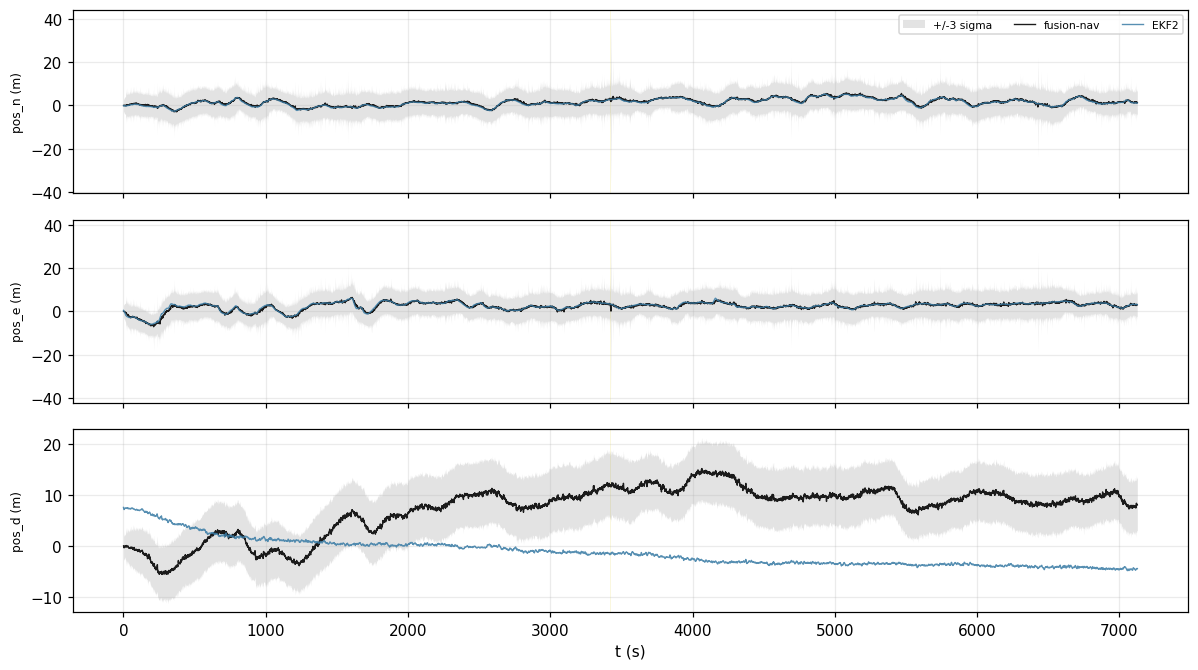
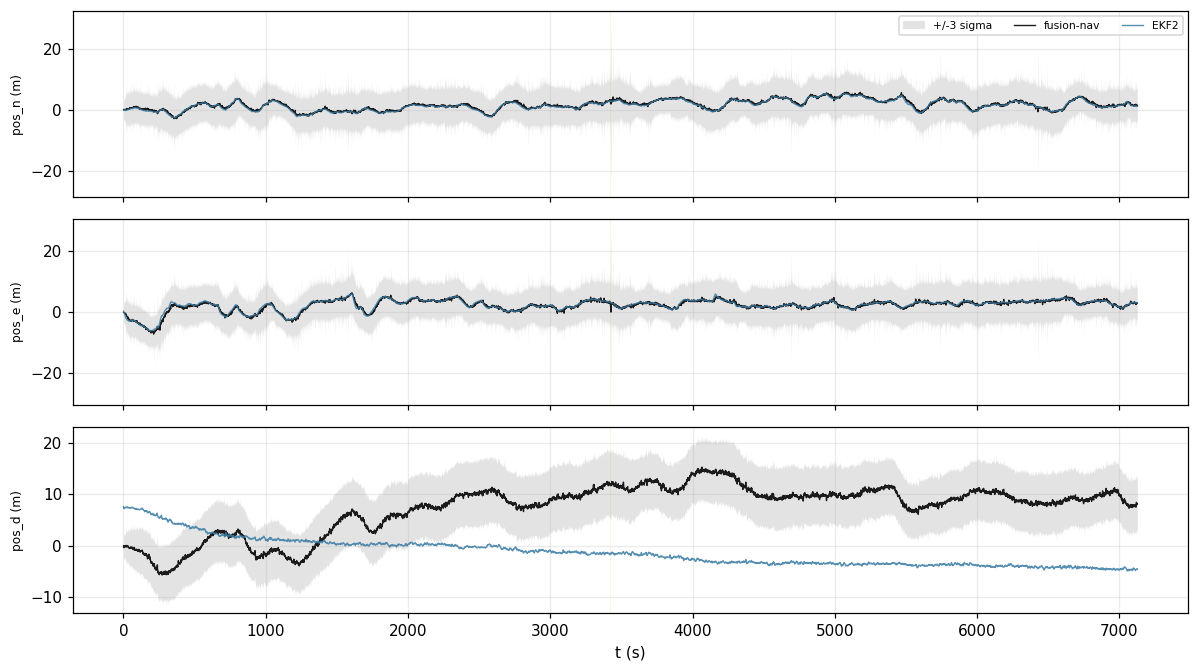
Validation pages for the hold; cost page lists the step and the hold beside predict (#210)

diff --git a/validation/cost.md b/validation/cost.md
@@ -2,10 +2,10 @@
 # Cost on a target
 
 **What does the filter cost a microcontroller?** The whole filter, `Eskf`, is
-3776 bytes on a Cortex-M0 and allocates nothing
+4104 bytes on a Cortex-M0 and allocates nothing
 else, so that is the RAM to plan for beyond the stack. The deepest stack is a GNSS velocity
-update, 11508 bytes, and linking every entry point takes
-108474 bytes of flash at `opt-level = "s"`. Execution time on
+update, 11540 bytes, and linking every entry point takes
+112042 bytes of flash at `opt-level = "s"`. Execution time on
 hardware is not measured yet (#41).
 
 Every figure on this page is pinned exactly in `data/footprint.txt`, which CI measures on
@@ -42,13 +42,13 @@ host timings, which are taken on one machine and pinned nowhere.
 
 | type | `thumbv6m` | `thumbv7em` |
 | --- | --- | --- |
-| `Eskf`, the filter | 3776 | 3776 |
+| `Eskf`, the filter | 4104 | 4104 |
 | of which the state history of (23′) | 1544 | 1544 |
 | of which the covariance `P` | 900 | 900 |
-| of which `Diagnostics` | 768 | 768 |
+| of which `Diagnostics` | 1048 | 1048 |
 | of which the barometric offset of (30′) | 64 | 64 |
 | `State`, the estimate `state()` returns | 72 | 72 |
-| `Config` | 244 | 244 |
+| `Config` | 260 | 260 |
 | `StaticWindow`, at any rate and length | 912 | 912 |
 | `StaticSample` | 80 | 80 |
 | `Startup`, a start worked out and checked before it commits, on a start's stack | 1088 | 1088 |
@@ -61,19 +61,19 @@ The deepest stack a call into each entry point takes, in bytes, before the calle
 
 | entry point | `thumbv6m` | `thumbv7em` |
 | --- | --- | --- |
-| `predict` | 9164 | 8984 |
-| `fuse_gnss_position` | 10780 | 10576 |
-| `fuse_gnss_geodetic` | 11124 | 10904 |
-| `fuse_gnss_velocity` | 11508 | 11288 |
-| `fuse_baro_altitude` | 9644 | 9392 |
-| `fuse_mag_heading` | 9716 | 9480 |
-| `fuse_gnss_heading` | 9836 | 9616 |
-| `fuse_course` | 9852 | 9624 |
-| `predicted_validity` | 8644 | 8448 |
+| `predict` | 10748 | 10584 |
+| `fuse_gnss_position` | 10804 | 10600 |
+| `fuse_gnss_geodetic` | 11140 | 10928 |
+| `fuse_gnss_velocity` | 11540 | 11328 |
+| `fuse_baro_altitude` | 9652 | 9416 |
+| `fuse_mag_heading` | 9732 | 9504 |
+| `fuse_gnss_heading` | 9852 | 9640 |
+| `fuse_course` | 9868 | 9648 |
+| `predicted_validity` | 8652 | 8448 |
 | `initialize` | 5476 | 5312 |
 | `initialize_coarse` | 6212 | 6048 |
-| `initialize_from` | 2984 | 2896 |
-| **the deepest of them** | **11508** | **11288** |
+| `initialize_from` | 3008 | 2896 |
+| **the deepest of them** | **11540** | **11328** |
 
 The deepest path is `fuse_gnss_velocity` calling the three-measurement update, which calls
 `nalgebra`'s 15 × 15 matrix product, which calls the soft-float multiply on `thumbv6m` and
@@ -83,26 +83,26 @@ Each entry point's own frame, and the frames beneath it that set its depth:
 
 | function | `thumbv6m` | `thumbv7em` |
 | --- | --- | --- |
-| `predict` | 2176 | 2160 |
+| `predict` | 16 | 16 |
 | `fuse_gnss_position` | 1376 | 1336 |
-| `fuse_gnss_geodetic` | 344 | 328 |
+| `fuse_gnss_geodetic` | 336 | 328 |
 | `fuse_gnss_velocity` | 1416 | 1408 |
-| `fuse_baro_altitude` | 1272 | 1256 |
+| `fuse_baro_altitude` | 1264 | 1256 |
 | `fuse_mag_heading` | 112 | 104 |
 | `fuse_gnss_heading` | 248 | 256 |
 | `fuse_course` | 256 | 264 |
-| `predicted_validity` | 1856 | 1832 |
+| `predicted_validity` | 1864 | 1832 |
 | `initialize` | 2224 | 2216 |
 | `initialize_coarse` | 3504 | 3488 |
 | `initialize_from` | 1928 | 1856 |
 | beneath the three heading entry points: the heading update they share | 1232 | 1240 |
-| beneath `fuse_gnss_velocity`: the update of (23)–(27), three measurements | 8088 | 7960 |
-| beneath `fuse_gnss_position` (and so a geodetic fix): two, the horizontal pair | 7400 | 7320 |
-| beneath `fuse_gnss_position`'s height, `fuse_baro_altitude` and the heading update: one | 6368 | 6216 |
+| beneath `fuse_gnss_velocity`: the update of (23)–(27), three measurements | 8120 | 8000 |
+| beneath `fuse_gnss_position` (and so a geodetic fix): two, the horizontal pair | 7424 | 7344 |
+| beneath `fuse_gnss_position`'s height, `fuse_baro_altitude` and the heading update: one | 6384 | 6240 |
 | beside the update: the observation formed at the measurement's time, (23′) | 1464 | 1440 |
-| beside the update: committing its result, or handing it to an adoption | 1120 | 1064 |
+| beside the update: committing its result, or handing it to an adoption | 1120 | 1072 |
 | beside the update: adopting a position, from `fuse_gnss_position` | 1976 | 1992 |
-| beside the update: adopting a velocity, from `fuse_gnss_velocity` | 1904 | 1904 |
+| beside the update: adopting a velocity, from `fuse_gnss_velocity` | 1896 | 1904 |
 | beneath the update: the attitude reset of (41) | 456 | 448 |
 | beneath the update: the injection of (39)–(40) | 168 | 88 |
 | beneath `predict`: one sample, (9)–(22) | 1088 | 1096 |
@@ -116,11 +116,11 @@ Each entry point's own frame, and the frames beneath it that set its depth:
 
 | bytes | `thumbv6m` `3` | `thumbv6m` `s` | `thumbv7em` `3` | `thumbv7em` `s` |
 | --- | --- | --- | --- | --- |
-| `.text` | 168758 | 108474 | 183636 | 114684 |
-| of which `libm` | 19532 | 10432 | 20752 | 12064 |
-| of which `compiler_builtins` | 10288 | 10334 | 7558 | 7674 |
-| of which `nalgebra`, out of line | 15256 | 2056 | 4202 | 1080 |
-| `.rodata` | 4383 | 4455 | 4527 | 4599 |
+| `.text` | 173106 | 112042 | 194396 | 118668 |
+| of which `libm` | 19532 | 10432 | 20752 | 12620 |
+| of which `compiler_builtins` | 10334 | 10334 | 7674 | 7674 |
+| of which `nalgebra`, out of line | 15256 | 1900 | 3956 | 924 |
+| `.rodata` | 4415 | 4487 | 4559 | 4631 |
 
 The column heads are target and `opt-level`. `compiler_builtins` is software floating point on
 `thumbv6m`; on `thumbv7em` it is the `f64` arithmetic a single-precision FPU lacks, beside

diff --git a/validation/ekf2.md b/validation/ekf2.md
@@ -8,7 +8,7 @@ RMS north, velocity to 0.04160 m/s RMS north and tilt to
 receiver that overstates its accuracy, a hand launch this filter levels wrong, and a barometer
 the two filters trust differently.
 
-Generated by `tools/validation.sh` at `920d11a`; every figure on this page is from that build, and `tools/validation.sh --check` re-derives them.
+Generated by `tools/validation.sh` at `2dfcabf`; every figure on this page is from that build, and `tools/validation.sh --check` re-derives them.
 
 **EKF2 is not the truth.** Real flight logs carry no true trajectory, so every number here is a
 distance between two estimators fed the same sensor data. It measures agreement, never
@@ -35,10 +35,10 @@ Replayed `raw`:
 | run | `pos_n_rms` | `pos_e_rms` | `pos_d_rms` | `vel_n_rms` | `tilt_diff_rms` | `heading_diff_med` | `rej_s_gnss_pos` | `rej_s_gnss_pos_ekf2` |
 |---|---|---|---|---|---|---|---|---|
 | `3949f175/raw` | 0.04495 | 0.03032 | 0.4535 | 0.06739 | 0.4958 | 19.58 | 0.000 | 0.000 |
-| `f16771dd/raw` | none | none | none | 4.631 | 1.729 | 169.9 | none | 0.000 |
+| `f16771dd/raw` | none | none | none | 0.4931 | 0.9216 | 169.6 | none | 0.000 |
 | `a299e722/raw` | 5.822 | 16.39 | 2.607 | 1.238 | 3.177 | 0.8911 | 7.002 | 0.000 |
-| `7592c9b2/raw` | none | none | none | 0.5206 | 0.7504 | 0.5215 | none | 0.000 |
-| `2c42096b/raw` | 0.2951 | 0.3559 | 11.13 | 0.09168 | 0.3638 | 0.5664 | 0.000 | 0.000 |
+| `7592c9b2/raw` | none | none | none | 0.07548 | 0.2519 | 0.4745 | none | 0.000 |
+| `2c42096b/raw` | 0.2950 | 0.3559 | 11.13 | 0.09167 | 0.3638 | 0.5662 | 0.000 | 0.000 |
 | `89a498ce/raw` | 0.08330 | 0.02933 | 0.1057 | 0.04160 | 0.3291 | 0.7624 | 0.000 | 0.000 |
 | `eb799954/raw` | 0.2749 | 0.2520 | 0.8808 | 0.09795 | 0.5019 | 4.690 | 0.000 | 0.000 |
 | `cd7e0001/raw` | 0.9892 | 0.5537 | 1.628 | 0.08542 | 0.4490 | 0.3793 | 0.000 | 0.000 |
@@ -53,10 +53,10 @@ Replayed `px4`:
 | run | `pos_n_rms` | `pos_e_rms` | `pos_d_rms` | `vel_n_rms` | `tilt_diff_rms` | `heading_diff_med` | `rej_s_gnss_pos` | `rej_s_gnss_pos_ekf2` |
 |---|---|---|---|---|---|---|---|---|
 | `3949f175/px4` | 0.04499 | 0.03033 | 0.4425 | 0.06740 | 0.4946 | 19.58 | 0.000 | 0.000 |
-| `f16771dd/px4` | none | none | none | 4.631 | 1.729 | 169.9 | none | 0.000 |
+| `f16771dd/px4` | none | none | none | 0.4931 | 0.9216 | 169.6 | none | 0.000 |
 | `a299e722/px4` | 0.5436 | 0.3325 | 1.199 | 0.3760 | 2.119 | 0.8433 | 0.000 | 0.000 |
-| `7592c9b2/px4` | none | none | none | 0.5206 | 0.7504 | 0.5215 | none | 0.000 |
-| `2c42096b/px4` | 0.2933 | 0.3536 | 11.11 | 0.09168 | 0.2714 | 0.4407 | 0.000 | 0.000 |
+| `7592c9b2/px4` | none | none | none | 0.07548 | 0.2519 | 0.4745 | none | 0.000 |
+| `2c42096b/px4` | 0.2932 | 0.3536 | 11.11 | 0.09168 | 0.2714 | 0.4404 | 0.000 | 0.000 |
 | `89a498ce/px4` | 0.09253 | 0.04825 | 0.9781 | 0.02851 | 0.1636 | 0.6808 | 0.000 | 0.000 |
 | `eb799954/px4` | 0.1167 | 0.1012 | 1.351 | 0.1015 | 0.4037 | 4.870 | 0.000 | 0.000 |
 | `cd7e0001/px4` | 0.7904 | 0.3266 | 1.096 | 0.07755 | 0.4171 | 1.219 | 0.000 | 0.000 |
@@ -81,7 +81,7 @@ Columns, each a difference between EKF2 and this filter:
 Some rows are explained by the log, not by either filter:
 
 - `f16771dd` has no GNSS, and EKF2 used no magnetometer on it either, so EKF2's heading drifted
-  with nothing to correct it. The 169.9° is that drift
+  with nothing to correct it. The 169.6° is that drift
   against this filter's magnetometer heading.
 - `7592c9b2` was flown with LPE, an older PX4 estimator, not EKF2, and reports no position.
 - `3949f175` is a simulation (PX4 SITL) whose magnetic declination setting does not match the
@@ -171,7 +171,7 @@ height together, and trusts GNSS for slow changes. The barometer drifts over the
 the two heights move apart. From the average of the first minute to the average of the last,
 EKF2's height changes by 11.97 m and this filter's by
 -7.984 m (up is positive). With no true height, nothing here says
-which is right. Horizontally the two agree to 0.2951 m RMS north.
+which is right. Horizontally the two agree to 0.2950 m RMS north.
 
 ![states_position_ned for 2c42096b/raw](figures/2c42096b-raw/states_position_ned.png)
 

diff --git a/validation/accuracy.md b/validation/accuracy.md
@@ -8,7 +8,7 @@ flight, horizontal position is off by 0.325 m RMS and never by more than
 errors the simulator models, not every error a real vehicle has. One real quadcopter is scored
 too, [below](#a-real-quadcopter-against-rtk), for position, height and velocity.
 
-Generated by `tools/validation.sh` at `920d11a`; every figure on this page is from that build, and `tools/validation.sh --check` re-derives them.
+Generated by `tools/validation.sh` at `2dfcabf`; every figure on this page is from that build, and `tools/validation.sh --check` re-derives them.
 
 ## Where the truth comes from
 
@@ -23,6 +23,8 @@ Each scenario exists to test one thing no other scenario covers:
 - `static`: 60 s sitting on the ground.
 - `mission`: the **baseline**. 5 s still, then a 180 s circuit with turns and climbs.
 - `moving_start`: a different flight, in the air and turning from the first sample.
+- `bench`: 120 s still with no GNSS, the application telling the filter it is still.
+- `hover_outage`: a hover drifting 27 m, with no GNSS for 90 s of it.
 - The rest (`harsh_imu`, `gnss_outage`, `baro_drift`, `gnss_latency`, `correlated`,
   `mag_disturbance`, `logging_dropout`): the baseline circuit with one thing changed, each
   described below.
@@ -35,7 +37,7 @@ Each scenario exists to test one thing no other scenario covers:
 | `static` | 1 | 0.659 | 1.029 | 0.363 | 0.138 | 0.539 | 0.554 |
 | `mission` | 2 | 0.325 | 0.811 | 0.172 | 0.138 | 0.328 | 0.402 |
 | `harsh_imu` | 2 | 0.327 | 0.819 | 0.171 | 0.143 | 0.920 | 1.829 |
-| `gnss_outage` | 2 | 1.677 | 9.707 | 0.103 | 0.211 | 0.340 | 0.463 |
+| `gnss_outage` | 2 | 1.680 | 8.987 | 0.103 | 0.212 | 0.342 | 0.462 |
 | `moving_start` | 4 | 0.469 | 0.763 | 0.881 | 0.146 | 1.562 | 1.494 |
 | `baro_drift` | 2 | 0.325 | 0.811 | 1.122 | 0.138 | 0.327 | 0.401 |
 | `gnss_latency` | 2 | 0.327 | 0.826 | 0.159 | 0.143 | 0.339 | 0.429 |
@@ -46,6 +48,8 @@ Each scenario exists to test one thing no other scenario covers:
 | `no_mag` | 3 | 0.277 | 0.564 | 0.222 | 0.139 | 0.498 | 6.594 |
 | `logging_dropout` | 2 | 0.324 | 2.684 | 0.148 | 0.140 | 0.405 | 0.474 |
 | `flight` | 8 | 1.540 | 3.569 | 0.347 | 0.428 | 0.480 | 7.978 |
+| `bench` | 9 | 0.002 | 0.003 | 0.049 | 0.002 | 0.425 | 0.380 |
+| `hover_outage` | 10 | 7.753 | 17.686 | 0.251 | 0.475 | 0.524 | 0.238 |
 
 Columns: `pos_h` is horizontal position error and `pos_v` height error, in meters. `pos_h_max`
 is the worst horizontal error at any moment. `vel` is velocity error in m/s. `tilt` is the
@@ -59,9 +63,14 @@ for. Against `mission`:
 - `harsh_imu` flies a poorly mounted, vibrating IMU. Attitude suffers:
   0.920° of tilt against 0.328°, while position barely
   moves.
-- `gnss_outage` loses GNSS for 20 s, and position drifts to 9.707 m
+- `gnss_outage` loses GNSS for 20 s, and position drifts to 8.987 m
   at worst. With nothing to correct it, the filter is integrating acceleration, and the
   [robustness page](robustness.md#gnss-outage) shows the drift staying inside the band.
+- `hover_outage` is not a departure but the case `gnss_outage` cannot be: a long outage with
+  the vehicle hardly moving. Nothing aids tilt for 90 s, and the position hold
+  ([GOALS.md](../GOALS.md#holding-tilt-without-aiding)) keeps it at 0.524°
+  RMS, with position 7.753 m RMS. `bench` holds tilt to
+  0.425° with no GNSS at all, from the application's word that it is still.
 - `moving_start` starts in the air, turning, with no still moment to level from. That costs
   attitude at the start; [below](#a-start-in-motion), it converges.
 - `baro_drift` has a barometer whose zero drifts. Height suffers:

diff --git a/validation/src/cost.md b/validation/src/cost.md
@@ -68,6 +68,7 @@ The deepest stack a call into each entry point takes, in bytes, before the calle
 | `fuse_mag_heading` | {{footprint thumbv6m-none-eabi chain.eskf.Eskf.fuse_mag_heading}} | {{footprint thumbv7em-none-eabihf chain.eskf.Eskf.fuse_mag_heading}} |
 | `fuse_gnss_heading` | {{footprint thumbv6m-none-eabi chain.eskf.Eskf.fuse_gnss_heading}} | {{footprint thumbv7em-none-eabihf chain.eskf.Eskf.fuse_gnss_heading}} |
 | `fuse_course` | {{footprint thumbv6m-none-eabi chain.eskf.Eskf.fuse_course}} | {{footprint thumbv7em-none-eabihf chain.eskf.Eskf.fuse_course}} |
+| `fuse_stationary` | {{footprint thumbv6m-none-eabi chain.eskf.Eskf.fuse_stationary}} | {{footprint thumbv7em-none-eabihf chain.eskf.Eskf.fuse_stationary}} |
 | `predicted_validity` | {{footprint thumbv6m-none-eabi chain.eskf.Eskf.predicted_validity}} | {{footprint thumbv7em-none-eabihf chain.eskf.Eskf.predicted_validity}} |
 | `initialize` | {{footprint thumbv6m-none-eabi chain.eskf.Eskf.initialize}} | {{footprint thumbv7em-none-eabihf chain.eskf.Eskf.initialize}} |
 | `initialize_coarse` | {{footprint thumbv6m-none-eabi chain.eskf.Eskf.initialize_coarse}} | {{footprint thumbv7em-none-eabihf chain.eskf.Eskf.initialize_coarse}} |
@@ -83,6 +84,8 @@ Each entry point's own frame, and the frames beneath it that set its depth:
 | function | `thumbv6m` | `thumbv7em` |
 | --- | --- | --- |
 | `predict` | {{footprint thumbv6m-none-eabi frame.eskf.Eskf.predict}} | {{footprint thumbv7em-none-eabihf frame.eskf.Eskf.predict}} |
+| `propagate_or_coast`, the step it calls | {{footprint thumbv6m-none-eabi frame.eskf.Eskf.propagate_or_coast}} | {{footprint thumbv7em-none-eabihf frame.eskf.Eskf.propagate_or_coast}} |
+| `hold_if_unaided`, the hold it calls beside the step | {{footprint thumbv6m-none-eabi frame.eskf.Eskf.hold_if_unaided}} | {{footprint thumbv7em-none-eabihf frame.eskf.Eskf.hold_if_unaided}} |
 | `fuse_gnss_position` | {{footprint thumbv6m-none-eabi frame.eskf.Eskf.fuse_gnss_position}} | {{footprint thumbv7em-none-eabihf frame.eskf.Eskf.fuse_gnss_position}} |
 | `fuse_gnss_geodetic` | {{footprint thumbv6m-none-eabi frame.eskf.Eskf.fuse_gnss_geodetic}} | {{footprint thumbv7em-none-eabihf frame.eskf.Eskf.fuse_gnss_geodetic}} |
 | `fuse_gnss_velocity` | {{footprint thumbv6m-none-eabi frame.eskf.Eskf.fuse_gnss_velocity}} | {{footprint thumbv7em-none-eabihf frame.eskf.Eskf.fuse_gnss_velocity}} |
@@ -90,6 +93,7 @@ Each entry point's own frame, and the frames beneath it that set its depth:
 | `fuse_mag_heading` | {{footprint thumbv6m-none-eabi frame.eskf.Eskf.fuse_mag_heading}} | {{footprint thumbv7em-none-eabihf frame.eskf.Eskf.fuse_mag_heading}} |
 | `fuse_gnss_heading` | {{footprint thumbv6m-none-eabi frame.eskf.Eskf.fuse_gnss_heading}} | {{footprint thumbv7em-none-eabihf frame.eskf.Eskf.fuse_gnss_heading}} |
 | `fuse_course` | {{footprint thumbv6m-none-eabi frame.eskf.Eskf.fuse_course}} | {{footprint thumbv7em-none-eabihf frame.eskf.Eskf.fuse_course}} |
+| `fuse_stationary` | {{footprint thumbv6m-none-eabi frame.eskf.Eskf.fuse_stationary}} | {{footprint thumbv7em-none-eabihf frame.eskf.Eskf.fuse_stationary}} |
 | `predicted_validity` | {{footprint thumbv6m-none-eabi frame.eskf.Eskf.predicted_validity}} | {{footprint thumbv7em-none-eabihf frame.eskf.Eskf.predicted_validity}} |
 | `initialize` | {{footprint thumbv6m-none-eabi frame.eskf.Eskf.initialize}} | {{footprint thumbv7em-none-eabihf frame.eskf.Eskf.initialize}} |
 | `initialize_coarse` | {{footprint thumbv6m-none-eabi frame.eskf.Eskf.initialize_coarse}} | {{footprint thumbv7em-none-eabihf frame.eskf.Eskf.initialize_coarse}} |

diff --git a/validation/honesty.md b/validation/honesty.md
@@ -7,7 +7,7 @@ true value sat inside the filter's ±3σ band was 1.0000, where 1 is every check
 In `correlated` the filter claims more accuracy than it has, because sensor errors persist longer
 than it assumes. This page shows that, and a fault it absorbs: GNSS fixes that arrive late.
 
-Generated by `tools/validation.sh` at `920d11a`; every figure on this page is from that build, and `tools/validation.sh --check` re-derives them.
+Generated by `tools/validation.sh` at `2dfcabf`; every figure on this page is from that build, and `tools/validation.sh --check` re-derives them.
 
 ## Why this is its own question
 
@@ -46,7 +46,7 @@ The same flights the [accuracy page](accuracy.md) scores.
 | `static` | 1 | 1.0000 | 0.3949 | 0.1063 | 0.0407 | 0 |
 | `mission` | 2 | 1.0000 | 0.0829 | 0.1038 | 0.0219 | 0 |
 | `harsh_imu` | 2 | 1.0000 | 0.0836 | 0.1112 | 0.2679 | 0 |
-| `gnss_outage` | 2 | 1.0000 | 0.2402 | 0.0944 | 0.0234 | 0 |
+| `gnss_outage` | 2 | 1.0000 | 0.2353 | 0.0951 | 0.0240 | 0 |
 | `moving_start` | 4 | 1.0000 | 0.2201 | 0.1076 | 0.0340 | 0 |
 | `baro_drift` | 2 | 1.0000 | 0.4953 | 0.1040 | 0.0219 | 0 |
 | `gnss_latency` | 2 | 1.0000 | 0.0785 | 0.1012 | 0.0234 | 0 |
@@ -57,6 +57,8 @@ The same flights the [accuracy page](accuracy.md) scores.
 | `no_mag` | 3 | 1.0000 | 0.0774 | 0.1056 | 0.2027 | 0 |
 | `logging_dropout` | 2 | 1.0000 | 0.0777 | 0.1044 | 0.0240 | 0 |
 | `flight` | 8 | 1.0000 | 0.1257 | 0.0881 | 0.1230 | 0 |
+| `bench` | 9 | 1.0000 | 0.0080 | 0.0001 | 0.0252 | 0 |
+| `hover_outage` | 10 | 1.0000 | 0.2453 | 0.0504 | 0.0188 | 0 |
 
 Columns: `in3s` is the fraction of checks inside ±3σ. `nees_pos`, `nees_vel` and `nees_att` are
 NEES for position, velocity and attitude, averaged over the flight. `false_valid` counts moments
@@ -71,7 +73,7 @@ an application would act on a wrong answer.
 | `static` | 0.1920 | 0.1032 | 0.0398 | 0 | 0 | 0 |
 | `mission` | 0.1263 | 0.1027 | 0.0188 | 0 | 0 | 0 |
 | `harsh_imu` | 0.1264 | 0.1090 | 0.1398 | 0 | 0 | 0 |
-| `gnss_outage` | 0.1519 | 0.0941 | 0.0180 | 0 | 0 | 0 |
+| `gnss_outage` | 0.1575 | 0.0949 | 0.0182 | 0 | 0 | 0 |
 | `moving_start` | 0.3885 | 0.1104 | 0.0290 | 0 | 0 | 0 |
 | `baro_drift` | 0.4601 | 0.1027 | 0.0187 | 0 | 0 | 0 |
 | `gnss_latency` | 0.1152 | 0.1003 | 0.0187 | 0 | 0 | 0 |
@@ -82,6 +84,8 @@ an application would act on a wrong answer.
 | `no_mag` | 0.1443 | 0.1045 | 0.2125 | 0 | 0 | 0 |
 | `logging_dropout` | 0.1208 | 0.1038 | 0.0217 | 0 | 0 | 0 |
 | `flight` | 0.2348 | 0.0926 | 0.1513 | 0 | 0 | 0 |
+| `bench` | 0.0263 | 0.0001 | 0.0307 | 0 | 0 | 0 |
+| `hover_outage` | 0.4032 | 0.0554 | 0.0278 | 0 | 0 | 0 |
 
 Columns: `anees_pos`, `anees_vel` and `anees_att` are ANEES averaged over the flight. `any_pos`,
 `any_vel` and `any_att` count moments where ANEES crossed a strict bound

diff --git a/validation/robustness.md b/validation/robustness.md
@@ -9,7 +9,7 @@ the moment it describes. On a real city drive with truth, the filter takes every
 receiver gives it, and **fails** against a receiver that stays wrong for a minute at a time
 while claiming to be right: [GNSS in a city](#gnss-in-a-city).
 
-Generated by `tools/validation.sh` at `920d11a`; every figure on this page is from that build, and `tools/validation.sh --check` re-derives them.
+Generated by `tools/validation.sh` at `2dfcabf`; every figure on this page is from that build, and `tools/validation.sh --check` re-derives them.
 
 ## How to read these figures
 
@@ -23,7 +23,7 @@ for every scenario are on the [accuracy page](accuracy.md#every-scenario).
 ## GNSS outage
 
 GNSS disappears from 60 s to 80 s. With nothing to correct it, the filter estimates position by
-integrating acceleration twice, so the error grows: to 9.707 m at
+integrating acceleration twice, so the error grows: to 8.987 m at
 worst, against 0.811 m on the baseline. The band grows faster than the
 error, and when GNSS returns the first fix is accepted, not rejected, because the filter's
 reported uncertainty covered where it had drifted.
@@ -117,6 +117,14 @@ fix at all. The receiver stopped reporting for about two minutes, and the filter
 on its IMU for 126.45 s, reaching
 2024.261 m of error, and its reported uncertainty grew with it
 (position NEES 1.0164 over the drive, where near 1 is honest).
+
+Every run here is a car's configuration, with the position hold off. The hold assumes a vehicle
+that stays where aiding stopped, which a hovering multirotor does and a car does not. Under the
+default hold the F9P's gap reads 113.132 m RMS rather than
+334.166, but its position NEES is
+26.9940: the covariance narrows around a place the car has
+driven away from
+([GOALS.md, "Holding tilt without aiding"](../GOALS.md#holding-tilt-without-aiding)).
 
 **The hostile receiver.** A single-frequency u-blox M8T reports an accuracy of 5 to 25 m while
 it is tens to hundreds of meters out, for a minute at a time.

diff --git a/VALIDATION.md b/VALIDATION.md
@@ -8,7 +8,7 @@ where it claims more accuracy than it has, are named below. On real PX4 flights,
 is known exactly, it mostly agrees with EKF2, the estimator PX4 flies, and each place the two
 disagree is shown with its cause, or marked as not yet explained.
 
-Generated by `tools/validation.sh` at `920d11a`; every figure on this page is from that build, and `tools/validation.sh --check` re-derives them.
+Generated by `tools/validation.sh` at `2dfcabf`; every figure on this page is from that build, and `tools/validation.sh --check` re-derives them.
 
 ## How to read these pages
 
@@ -29,7 +29,7 @@ Four questions about the estimate, a page each, because each needs different evi
 
 ## [Accuracy](validation/accuracy.md): how close is it, when the truth is known?
 
-14 simulated flights, scored against their exact trajectories. On the baseline
+16 simulated flights, scored against their exact trajectories. On the baseline
 flight: horizontal position 0.325 m RMS, height 0.172 m,
 velocity 0.138 m/s, tilt 0.328° and heading
 0.402°. On a real quadcopter against RTK, horizontal position is off by
